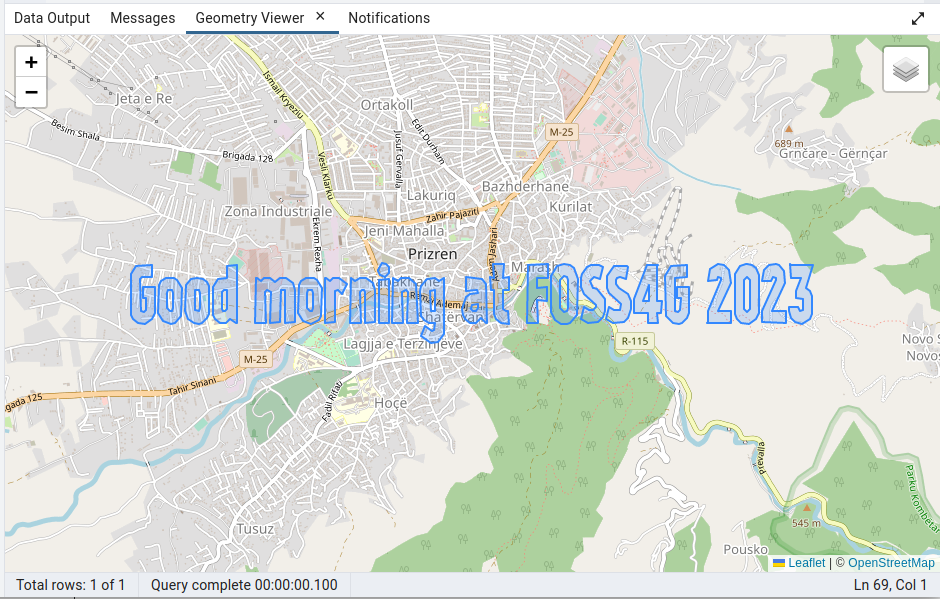
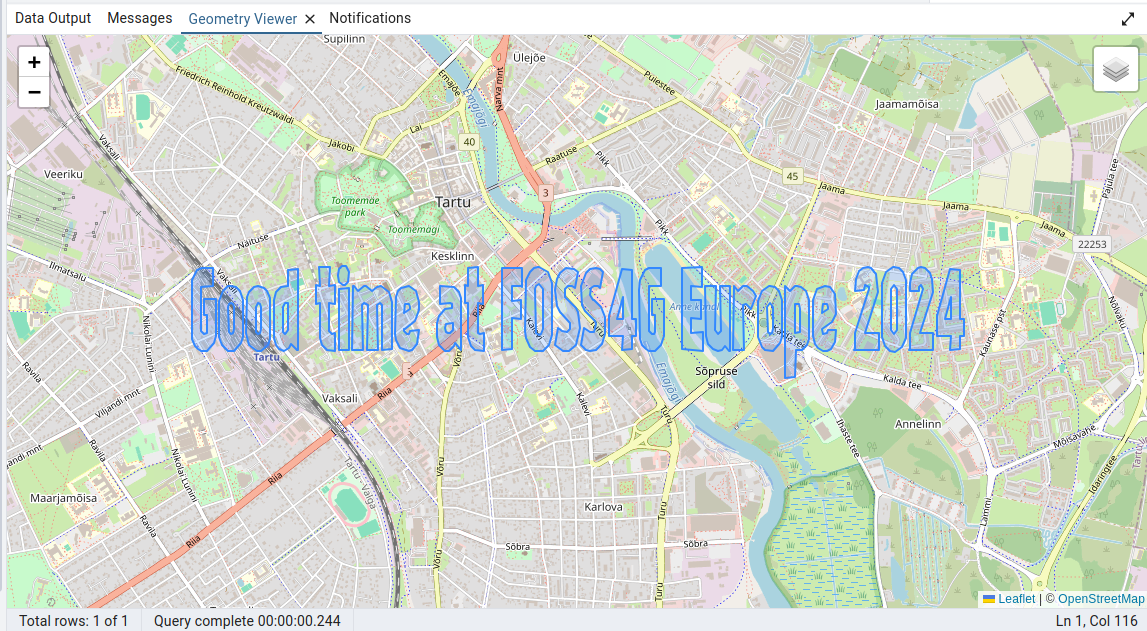
updated image knn

diff --git a/foss4g-europe-2024-workshop-manage-your-geospatial-data-with-postgresql-postgis-astrid-emde.md b/foss4g-europe-2024-workshop-manage-your-geospatial-data-with-postgresql-postgis-astrid-emde.md
@@ -185,7 +185,7 @@ Select ST_Letters('Good time at FOSS4G Europe 2024');
 ```
 
 ```sql
-SELECT ST_SetSrid(ST_Translate(ST_Scale(ST_Letters('Good time at FOSS4G 2024'), 0.00005, 0.00005), 26.716230 , 58.373440),4326);
+SELECT ST_SetSrid(ST_Translate(ST_Scale(ST_Letters('Good time at FOSS4G Europe 2024'), 0.00005, 0.00005), 26.700000 , 58.373440),4326);
 ```
 
 ![](img/st_letters.png)
@@ -873,7 +873,7 @@ Select * from qry_next_bars_100;
 Create the 100 m buffer around the Tartu Department of Geography.
 
 ```sql
-CREATE view qry_buffer_mosk_100 as
+CREATE view qry_buffer_100 as
  SELECT gid, st_buffer(geom::geography,100)::geometry as geom
   FROM cities 
    WHERE name = 'Tartu';
@@ -883,14 +883,14 @@ CREATE view qry_buffer_mosk_100 as
 Create an intersection between the buffer area and the OSM buildings.
 
 ```sql
-CREATE view qry_intersection_buffer_100_buildings as
+CREATE view qry_intersection_buffer_500_buildings as
 SELECT p.osm_id, p.way as geom, 
  p.name,
  p.building, 
  ST_Multi(ST_Intersection(p.way, s.geom))::geometry(multipolygon,4326) geom_intersection
  FROM 
  planet_osm_polygon p,
- qry_buffer_mosk_100 s
+ qry_buffer_500 s
   WHERE 
   p.building IS NOT NULL AND
   ST_Intersects(p.way, s.geom);
